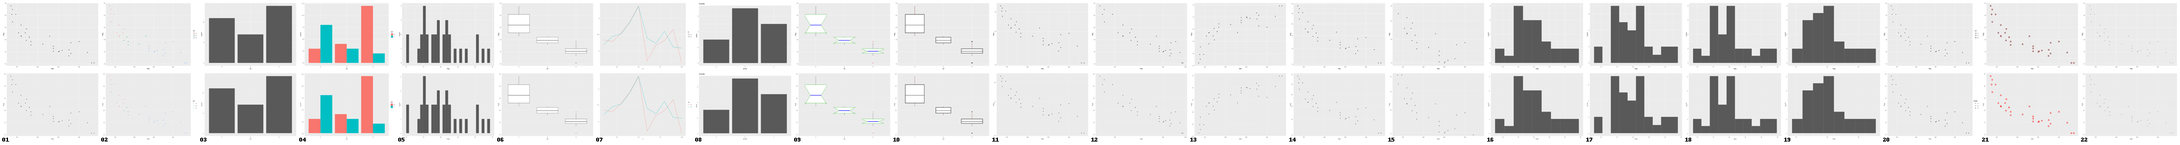
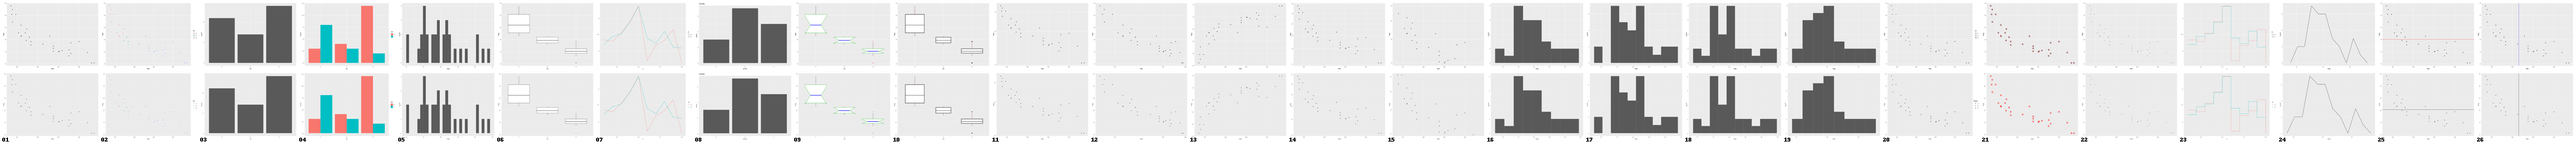
feat(geom): step/freqpoly/hline/vline + R导出支持
- Step: hv 阶梯 (carry x 再跳 y), 复用 line 路径与 group 排序
- Freqpoly: 复用 histogram Bin stat, 两端外延一 bin 宽到 y=0 (ggplot2 语义),
  y 轴自动 count 标题
- Hline/Vline: 常数线, intercept 取 param(标量)或映射列, 忽略继承的轴映射
- auto_label_of: freqpoly 计入 count 标题
- export_specs.R layer() 加 freqpoly/step/hline/vline; 新增图 23-26
- 26 图均值 0.42%; 23_step 0.34 / 25_hline 0.79 / 26_vline 0.66 达标;
  24_freqpoly 1.76% (几何全对, 残留 2px 左 gutter 微差)

diff --git a/crates/jplot-core/src/layout.rs b/crates/jplot-core/src/layout.rs
@@ -343,7 +343,8 @@ fn auto_label_of(bp: &BuiltPlot, aes: &str) -> Option<String> {
     if aes == "y" {
         let count_stat = bp.layers.iter().any(|l| {
             use crate::spec::GeomSpec;
-            matches!(l.geom, GeomSpec::Bar | GeomSpec::Histogram { .. }) && !l.aes.contains_key("y")
+            matches!(l.geom, GeomSpec::Bar | GeomSpec::Histogram { .. } | GeomSpec::Freqpoly { .. })
+                && !l.aes.contains_key("y")
         });
         if count_stat {
             return Some("count".into());
@@ -369,9 +370,87 @@ fn draw_layer(ops: &mut Vec<Primitive>, l: &crate::build::BuiltLayer, bp: &Built
     use crate::spec::GeomSpec;
     match l.geom {
         GeomSpec::Point { .. } => draw_points(ops, l, bp, vp),
-        GeomSpec::Line => draw_lines(ops, l, bp, vp),
+        GeomSpec::Line | GeomSpec::Freqpoly { .. } => draw_lines(ops, l, bp, vp),
+        GeomSpec::Step => draw_step(ops, l, bp, vp),
         GeomSpec::Col | GeomSpec::Bar | GeomSpec::Histogram { .. } => draw_bars(ops, l, bp, vp),
         GeomSpec::Boxplot => draw_boxplot(ops, l, bp, vp),
+        GeomSpec::Hline => draw_hline(ops, l, bp, vp),
+        GeomSpec::Vline => draw_vline(ops, l, bp, vp),
+    }
+}
+
+/// geom_step direction="hv": hold y, then step vertically at the next x.
+fn draw_step(ops: &mut Vec<Primitive>, l: &crate::build::BuiltLayer, bp: &BuiltPlot, vp: &Viewport) {
+    let width_px = l.args.f64_("linewidth").map(geom_lw).unwrap_or(geom_lw(0.5));
+    let (xs, ys) = (l.frame.get("x").cloned().unwrap_or_default(), l.frame.get("y").cloned().unwrap_or_default());
+    let n_groups = l.group_ids.iter().cloned().max().map_or(0, |m| m + 1);
+    for g in 0..n_groups.max(1) {
+        let mut idx: Vec<usize> = (0..xs.len()).filter(|&i| n_groups <= 1 || l.group_ids.get(i) == Some(&g)).collect();
+        if idx.is_empty() {
+            continue;
+        }
+        let rep = idx[0];
+        idx.sort_by_key(|&i| (xs[i] * 1e6).round() as i64);
+        let pts: Vec<(f64, f64)> = idx
+            .into_iter()
+            .filter(|&i| xs[i].is_finite() && ys[i].is_finite())
+            .map(|i| (vp.map_x(&bp.x_scale, xs[i]), vp.map_y(&bp.y_scale, ys[i])))
+            .collect();
+        if pts.len() < 2 {
+            continue;
+        }
+        // insert a horizontal carry point (x[i+1], y[i]) before each vertical jump
+        let mut stair: Vec<(f64, f64)> = vec![pts[0]];
+        for w in pts.windows(2) {
+            stair.push((w[1].0, w[0].1));
+            stair.push(w[1]);
+        }
+        ops.push(Primitive::Polyline {
+            points: stair,
+            stroke: Some(Line::solid(point_colour_of(l, rep, bp), width_px)),
+            fill: None,
+            closed: false,
+        });
+    }
+}
+
+/// geom_hline / geom_vline: constant lines across the panel. Intercept comes
+/// from the mapped aes column ("y"/"x") or the yintercept/xintercept param.
+fn draw_hline(ops: &mut Vec<Primitive>, l: &crate::build::BuiltLayer, bp: &BuiltPlot, vp: &Viewport) {
+    let width_px = l.args.f64_("linewidth").map(geom_lw).unwrap_or(geom_lw(0.5));
+    let ys = l
+        .frame
+        .get("y")
+        .cloned()
+        .or_else(|| l.args.f64_("yintercept").map(|v| vec![v]))
+        .unwrap_or_default();
+    let n = l.frame.n.max(1);
+    for (i, &y) in ys.iter().enumerate() {
+        if !y.is_finite() {
+            continue;
+        }
+        let py = vp.map_y(&bp.y_scale, y);
+        let c = point_colour_of(l, i.min(n - 1), bp);
+        ops.push(Primitive::Segment { x1: vp.x0, y1: py, x2: vp.x1, y2: py, stroke: Line::solid(c, width_px) });
+    }
+}
+
+fn draw_vline(ops: &mut Vec<Primitive>, l: &crate::build::BuiltLayer, bp: &BuiltPlot, vp: &Viewport) {
+    let width_px = l.args.f64_("linewidth").map(geom_lw).unwrap_or(geom_lw(0.5));
+    let xs = l
+        .frame
+        .get("x")
+        .cloned()
+        .or_else(|| l.args.f64_("xintercept").map(|v| vec![v]))
+        .unwrap_or_default();
+    let n = l.frame.n.max(1);
+    for (i, &x) in xs.iter().enumerate() {
+        if !x.is_finite() {
+            continue;
+        }
+        let px = vp.map_x(&bp.x_scale, x);
+        let c = point_colour_of(l, i.min(n - 1), bp);
+        ops.push(Primitive::Segment { x1: px, y1: vp.y0, x2: px, y2: vp.y1, stroke: Line::solid(c, width_px) });
     }
 }
 

diff --git a/crates/jplot-core/src/build.rs b/crates/jplot-core/src/build.rs
@@ -601,7 +601,7 @@ pub fn build(spec: &PlotSpec) -> Result<BuiltPlot, JplotError> {
         let _ = column_from_spec; // keep import for future constants path
         let stat = l.stat.clone().unwrap_or(match l.geom {
             GeomSpec::Bar => StatSpec::Count { width: None },
-            GeomSpec::Histogram { bins } => StatSpec::Bin {
+            GeomSpec::Histogram { bins } | GeomSpec::Freqpoly { bins } => StatSpec::Bin {
                 bins: l.args.f64_("bins").map(|v| v as usize).unwrap_or(bins),
                 breaks: l.args.nums("breaks").filter(|b| b.len() >= 2),
                 binwidth: l.args.f64_("binwidth"),
@@ -642,7 +642,44 @@ pub fn build(spec: &PlotSpec) -> Result<BuiltPlot, JplotError> {
                 f.set("xmax", xs.iter().map(|x| x + w / 2.0).collect());
                 f.set("ymin", vec![0.0; f.n]);
             }
-            GeomSpec::Point { .. } | GeomSpec::Line => {}
+            GeomSpec::Point { .. } | GeomSpec::Line | GeomSpec::Step => {}
+            GeomSpec::Freqpoly { .. } => {
+                // ggplot2 StatBin + geom_freqpoly: extend the line to y=0 one
+                // bin-width beyond the outer bin centres.
+                if let (Some(cs), Some(w)) = (f.get("x").cloned(), f.get("width").cloned()) {
+                    if let (Some(&first), Some(&last)) = (cs.first(), cs.last()) {
+                        let w = w[0];
+                        let mut xs = cs.clone();
+                        let mut ys = f.get("y").cloned().unwrap_or_default();
+                        xs.insert(0, first - w);
+                        xs.push(last + w);
+                        ys.insert(0, 0.0);
+                        ys.push(0.0);
+                        f.set("x", xs);
+                        f.set("y", ys);
+                    }
+                }
+            }
+            GeomSpec::Hline => {
+                // hline ignores the inherited y mapping; the intercept comes
+                // from the param (single) or a mapped yintercept column.
+                if let Some(v) = l.args.f64_("yintercept") {
+                    f.set("y", vec![v]);
+                } else if f.get("y").is_none() {
+                    if let Some(v) = f.get("yintercept").cloned() {
+                        f.set("y", v);
+                    }
+                }
+            }
+            GeomSpec::Vline => {
+                if let Some(v) = l.args.f64_("xintercept") {
+                    f.set("x", vec![v]);
+                } else if f.get("x").is_none() {
+                    if let Some(v) = f.get("xintercept").cloned() {
+                        f.set("x", v);
+                    }
+                }
+            }
         }
         frames.push(f);
         aes_map.push(aes);

diff --git a/crates/jplot-core/src/spec.rs b/crates/jplot-core/src/spec.rs
@@ -48,6 +48,15 @@ pub enum GeomSpec {
     },
     /// geom_boxplot
     Boxplot,
+    /// geom_freqpoly: histogram counts drawn as a line over bin centres
+    Freqpoly {
+        bins: usize,
+    },
+    /// geom_step: piecewise-constant line (hist / up / down)
+    Step,
+    /// geom_hline / geom_vline: constant lines (intercept from aes or param)
+    Hline,
+    Vline,
 }
 
 #[derive(Debug, Clone, PartialEq, Serialize, Deserialize)]
